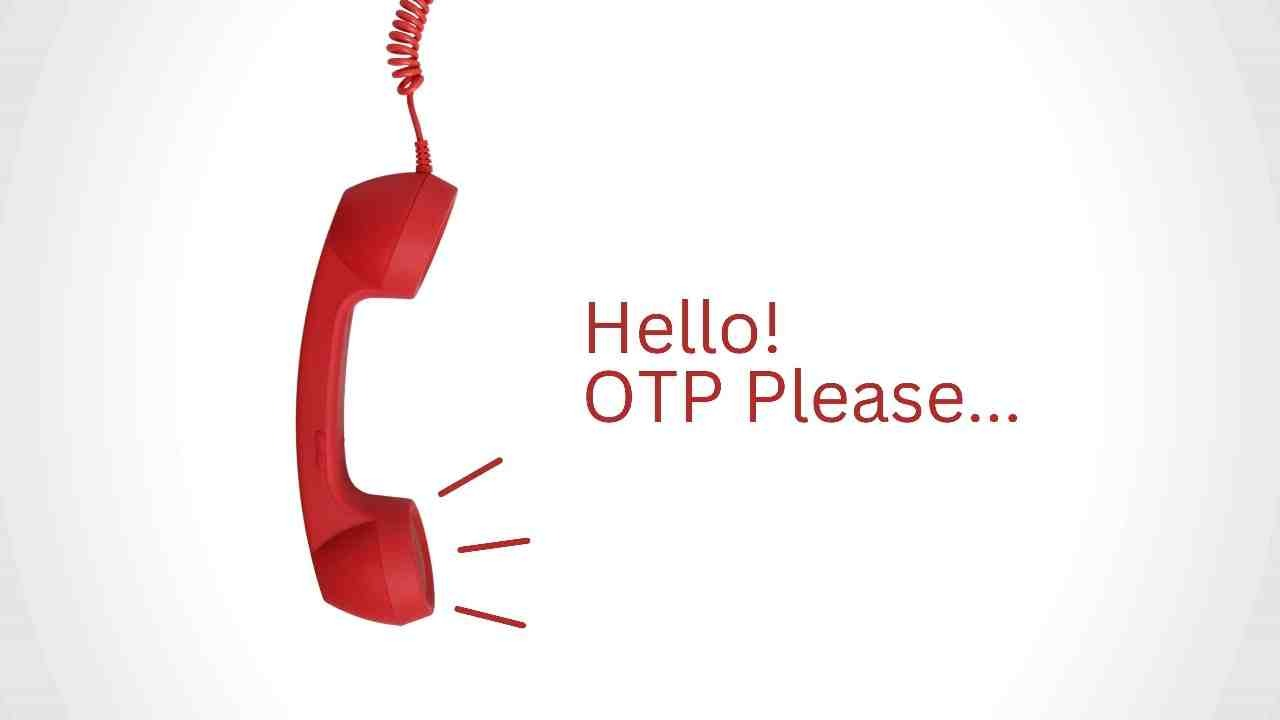
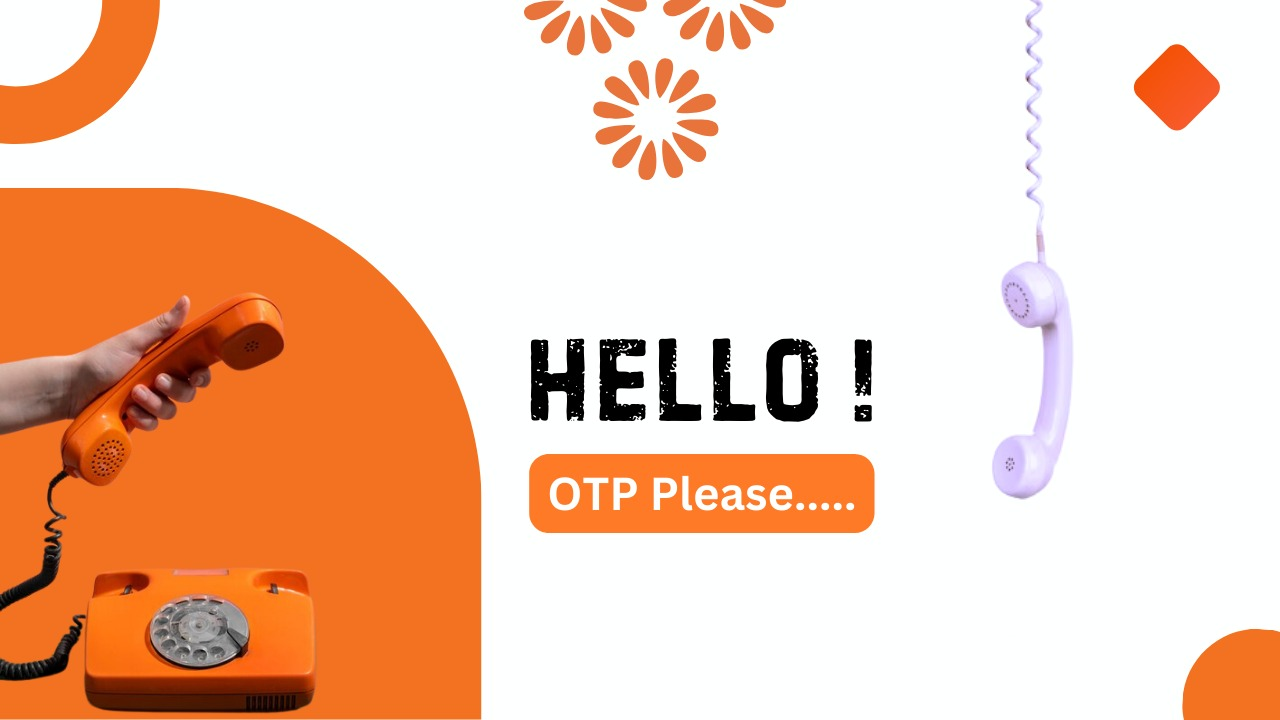
hero images changes

diff --git a/src/pages/carousal.jsx b/src/pages/carousal.jsx
@@ -6,7 +6,7 @@ import cyber3 from "../assets/3.jpg"
 import cyber4 from "../assets/4.jpg"
 import 'slick-carousel/slick/slick.css';
 import 'slick-carousel/slick/slick-theme.css';
-
+import "../slider.css"
 const ImageSlider = () => {
     const settings = {
         dots: true,
@@ -40,20 +40,20 @@ const ImageSlider = () => {
     };
 
     return (
-      <div className='w-screen  overflow-hidden'>
+      <div className='w-screen h-1/2 overflow-hidden'>
 
     <Slider {...settings}>
       <div>
-        <img src={cyber1} alt="rahil foundation" className='w-screen'/>
+        <img src={cyber1} alt="rahil foundation" className='w-screen h-1/2  sliderimg '/>
       </div>
       <div>
-        <img src={cyber2} alt="rahil foundation" className='w-screen'/>
+        <img src={cyber2} alt="rahil foundation" className='w-screen h-1/2  sliderimg'/>
       </div>
       <div>
-        <img src={cyber3} alt="rahil foundation" className='w-screen'/>
+        <img src={cyber3} alt="rahil foundation" className='w-screen h-1/2  sliderimg'/>
       </div>
       <div>
-        <img src={cyber4} alt="rahil foundation" className='w-screen'/>
+        <img src={cyber4} alt="rahil foundation" className='w-screen h-1/2  sliderimg'/>
       </div>
       {/* Add more slides as needed */}
     </Slider>

diff --git a/src/pages/cyberscrime.jsx b/src/pages/cyberscrime.jsx
@@ -4,6 +4,7 @@ import React, { useState } from "react";
 import { Helmet } from 'react-helmet';
 import { FaHandPointRight } from "react-icons/fa6";
 import Footer from "./footer";
+import cyberimg from "../assets/cyber.jpg"
 const CyberCrime = ( { header, text } ) => {
   const [ active, setActive ] = useState( false );
 
@@ -64,6 +65,7 @@ const Accordion = () => {
   return (
     <section className="w-full items-center overflow-hidden">
       {/* <Navbar/> */}
+      <img src={cyberimg} alt ="cyber crimes blogs" className="w-screen lg:h-96"/>
       <div className=" w-screen p-20 flex justify-center  items-center">
         <div className=" bg-lime-50 shadow-xl gap-5 flex rounded-lg flex-col p-5 w-3/4">
           <div className="flex flex-col gap-5 ">

diff --git a/src/slider.css b/src/slider.css
@@ -1,0 +1,6 @@
+
+@media only screen and (min-width:768px) and (max-width:1444px) {
+.sliderimg {
+        height: 80vh;
+    }
+}
